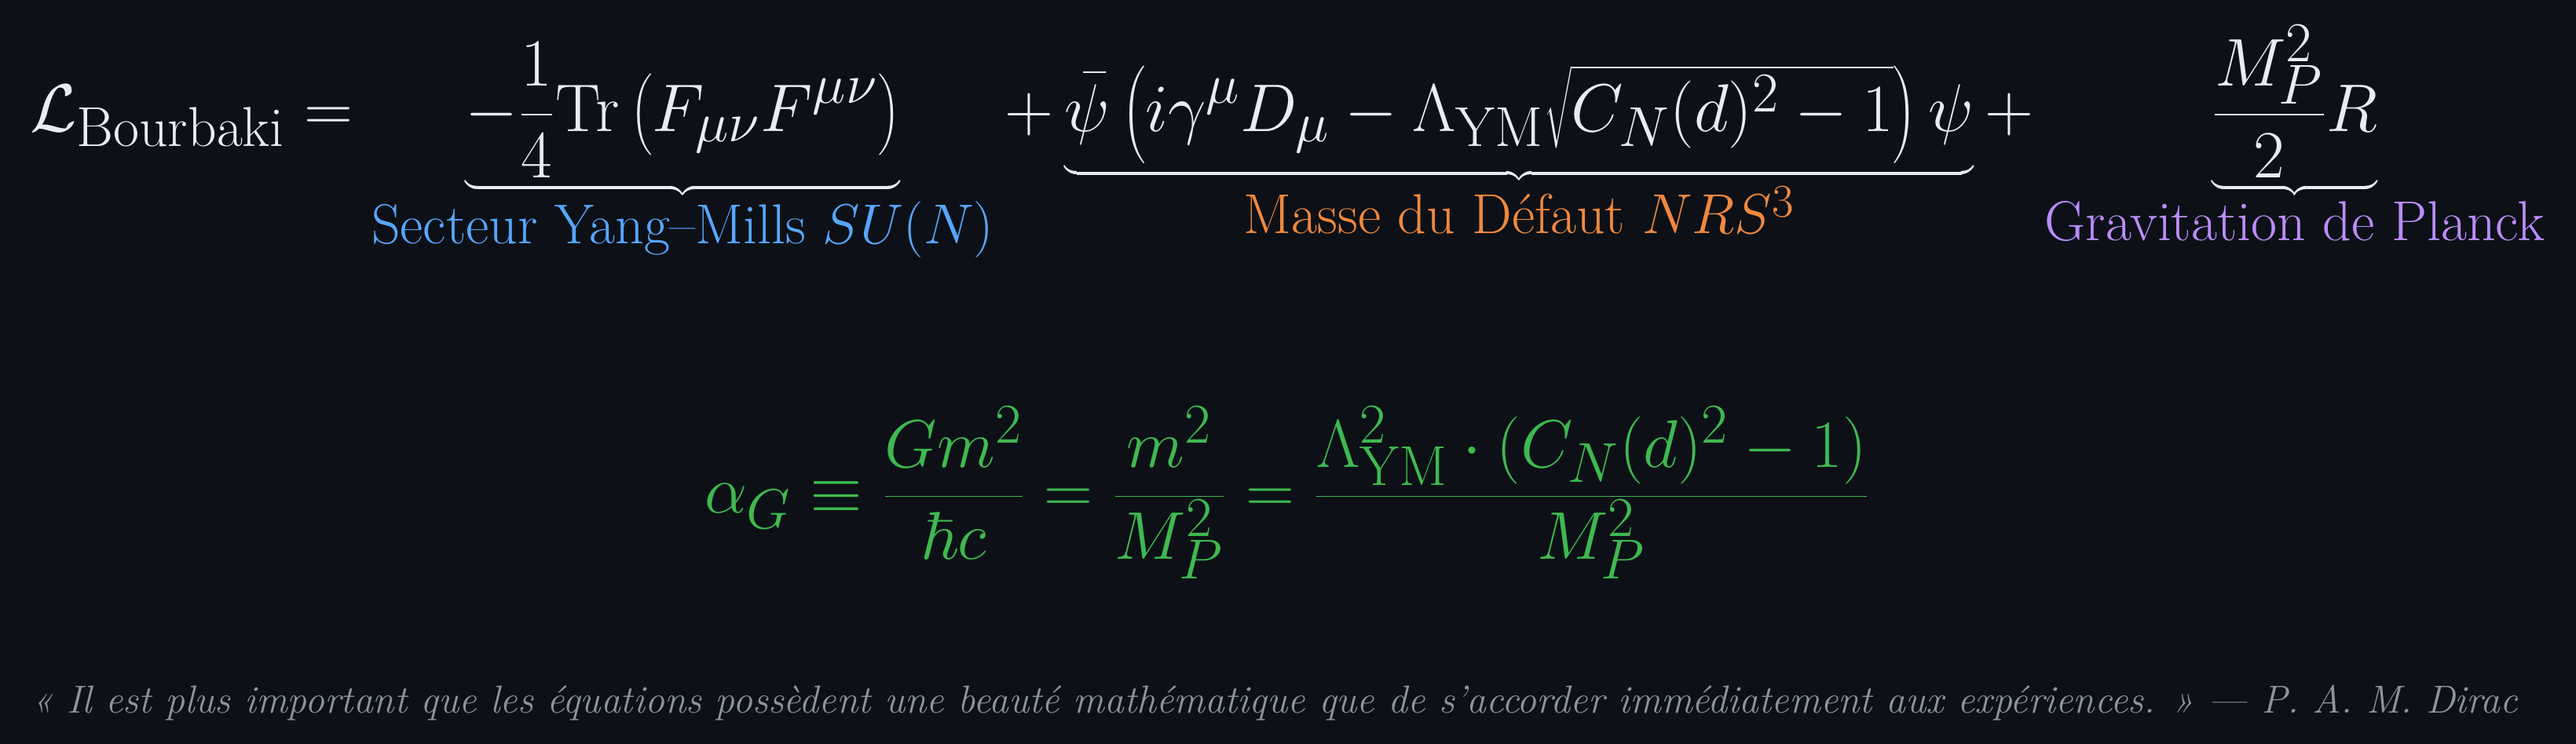
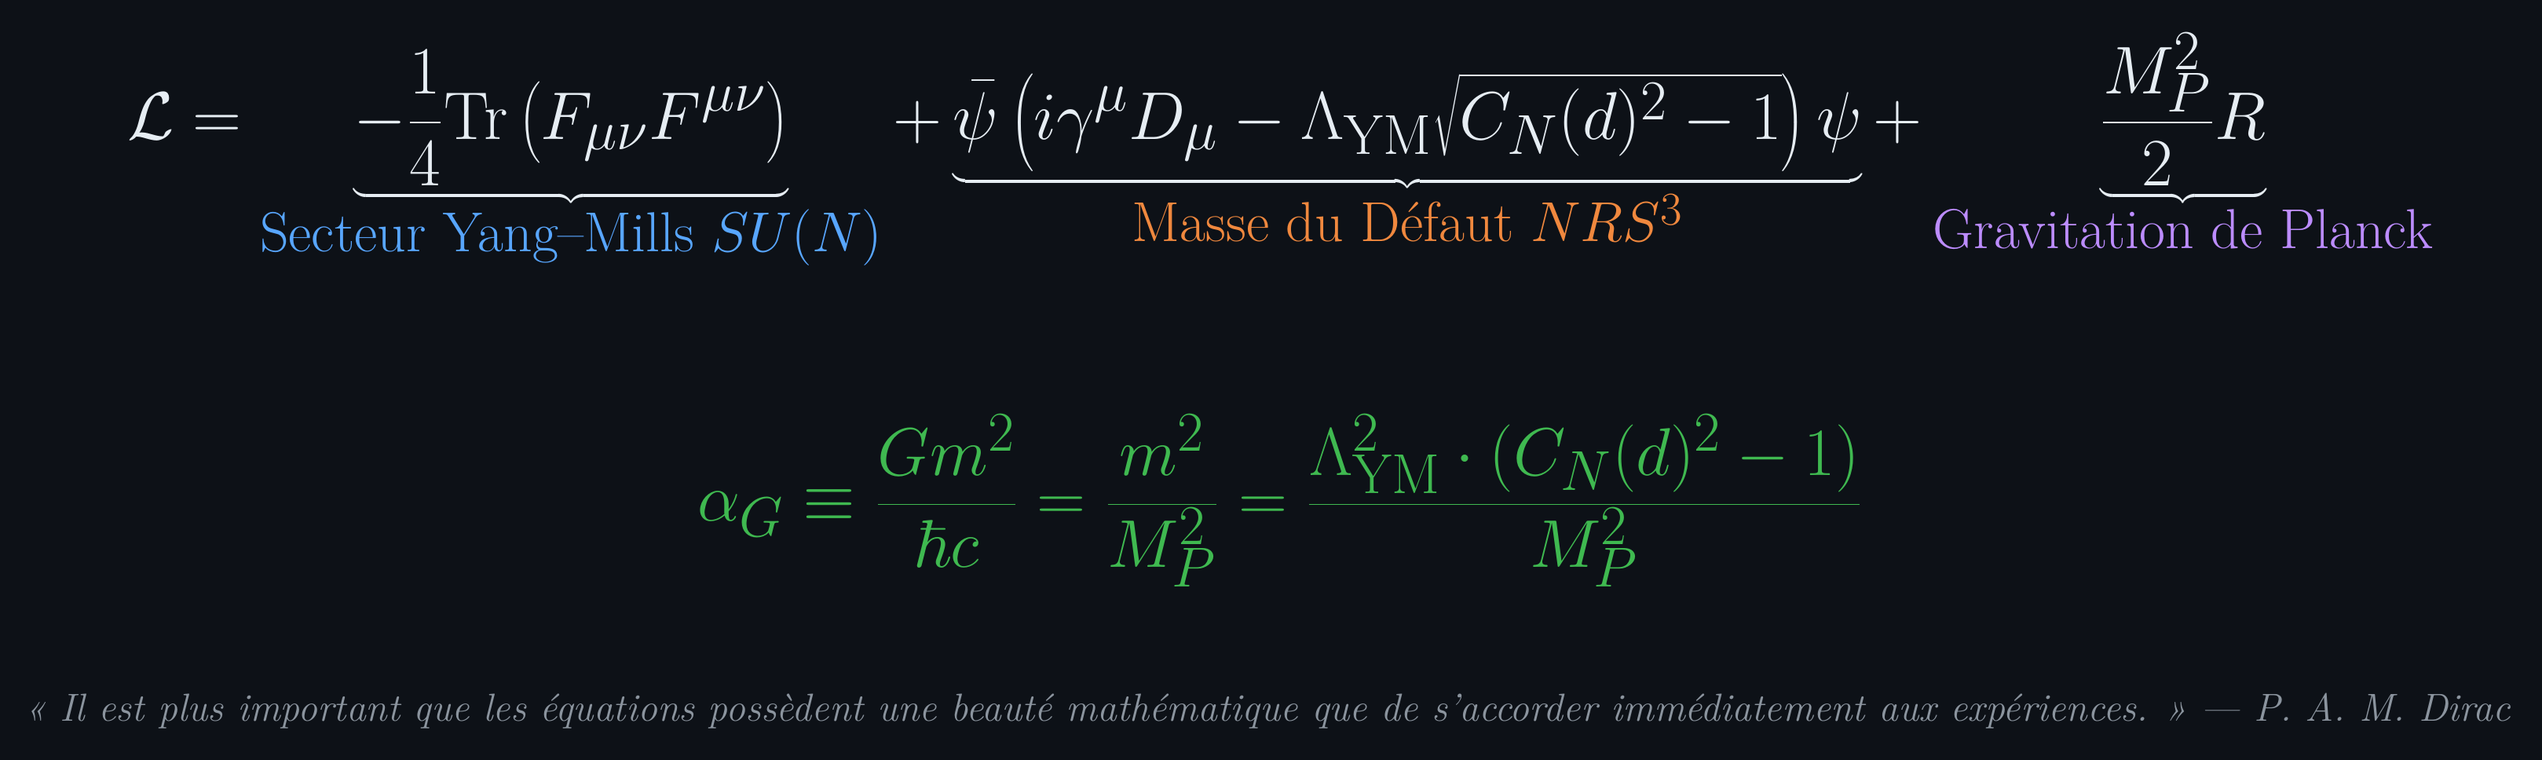
refactor(profile): epurer le lagrangien unifie — supprimer l'etiquette Bourbaki au profit des secteurs physiques stricts (Jauge, Defaut, Gravitation)

diff --git a/PROFILE.md b/PROFILE.md
@@ -10,7 +10,7 @@
 
 ---
 
-## 🏛 L'Unification Fonctorielle : Architecture Bourbaki
+## 🏛 L'Échelle Fonctorielle : Réseau, Jauge et Gravitation
 
 La physique théorique contemporaine s'est historiquement fragmentée en domaines étanches : la dispersion réticulaire en matière condensée, le confinement non abélien des théories de jauge, et la gravitation en champ faible.
 
@@ -19,7 +19,7 @@ la non-saturation de l'incertitude quantique sur les graphes cubiques discrets (
 
 <div align="center">
 
-<img src="https://raw.githubusercontent.com/naype888-cloud/naype888-cloud/main/assets/lagrangian_bourbaki.png" alt="L'Action Unifiée de Bourbaki : Jauge, Réseau et Gravitation" width="960">
+<img src="https://raw.githubusercontent.com/naype888-cloud/naype888-cloud/main/assets/action_unifiee.png" alt="L'Action Unifiée : Secteurs de Jauge, Matière et Gravitation" width="960">
 
 </div>
 
@@ -51,7 +51,7 @@ Incertitude de Nava–Robertson–Schrödinger sur le tri-tore $\mathbb{T}^3$ : 
 
 | Dépôt Source | Objet Mathématique & Démonstrations Certifiées | Portail Interactif 3D |
 |---|---|:---:|
-| **[`YM-By-Perelmans-surgery-method`](https://github.com/naype888-cloud/YM-By-Perelmans-surgery-method)** | **Gap Spectral de Yang–Mills & Pont Gravitationnel :** Traité Bourbaki en 8 étapes constructives. Matrice de transfert, chirurgie topologique de Perelman, annulation spectrale de Wightman $\Delta_{\mathrm{YM}} \ge \Lambda_{\mathrm{YM}}\sqrt{C^2 - 1} > 0$. Couplage adimensionnel de Planck $\alpha_G = \Lambda^2 (C^2 - 1) / M_P^2$ (`0 sorry`). | [▶ Explorateur 3D de Preuves](https://naype888-cloud.github.io/YM-By-Perelmans-surgery-method/) |
+| **[`YM-By-Perelmans-surgery-method`](https://github.com/naype888-cloud/YM-By-Perelmans-surgery-method)** | **Gap Spectral de Yang–Mills & Pont Gravitationnel :** Traité axiomatique en 8 étapes constructives. Matrice de transfert, chirurgie topologique de Perelman, annulation spectrale de Wightman $\Delta_{\mathrm{YM}} \ge \Lambda_{\mathrm{YM}}\sqrt{C^2 - 1} > 0$. Couplage adimensionnel de Planck $\alpha_G = \Lambda^2 (C^2 - 1) / M_P^2$ (`0 sorry`). | [▶ Explorateur 3D de Preuves](https://naype888-cloud.github.io/YM-By-Perelmans-surgery-method/) |
 | **[`nrs3-tightbinding`](https://github.com/naype888-cloud/nrs3-tightbinding)** | **Le Tableau Périodique 3D sur $\mathbb{Z}^3$ :** Les 118 éléments chimiques (H–Og) construits par saut discret sur arêtes cubiques ($T_d:P_d$). Courbure analytique exacte de bande $E''(0) = 2ta^2$ et masse effective $m^* = \hbar^2/(2ta^2)$. | [▶ Tableau Périodique 3D](https://naype888-cloud.github.io/nrs3-tightbinding/) |
 | **[`nrs3-defect-curvature`](https://github.com/naype888-cloud/nrs3-defect-curvature)** | **Défaut de Transport et Courbure :** Le défaut de transport fixe la courbure d'espace-temps sous le théorème de Gauss–Bonnet. Les liens non-locaux ferment les cycles topologiques, chacun portant un quantum de défaut. | [▶ Simulation Cône & Défaut](https://naype888-cloud.github.io/nrs3-defect-curvature/) |
 

diff --git a/README.md b/README.md
@@ -10,7 +10,7 @@
 
 ---
 
-## 🏛 L'Unification Fonctorielle : Architecture Bourbaki
+## 🏛 L'Échelle Fonctorielle : Réseau, Jauge et Gravitation
 
 La physique théorique contemporaine s'est historiquement fragmentée en domaines étanches : la dispersion réticulaire en matière condensée, le confinement non abélien des théories de jauge, et la gravitation en champ faible.
 
@@ -19,7 +19,7 @@ la non-saturation de l'incertitude quantique sur les graphes cubiques discrets (
 
 <div align="center">
 
-<img src="https://raw.githubusercontent.com/naype888-cloud/naype888-cloud/main/assets/lagrangian_bourbaki.png" alt="L'Action Unifiée de Bourbaki : Jauge, Réseau et Gravitation" width="960">
+<img src="https://raw.githubusercontent.com/naype888-cloud/naype888-cloud/main/assets/action_unifiee.png" alt="L'Action Unifiée : Secteurs de Jauge, Matière et Gravitation" width="960">
 
 </div>
 
@@ -51,7 +51,7 @@ Incertitude de Nava–Robertson–Schrödinger sur le tri-tore $\mathbb{T}^3$ : 
 
 | Dépôt Source | Objet Mathématique & Démonstrations Certifiées | Portail Interactif 3D |
 |---|---|:---:|
-| **[`YM-By-Perelmans-surgery-method`](https://github.com/naype888-cloud/YM-By-Perelmans-surgery-method)** | **Gap Spectral de Yang–Mills & Pont Gravitationnel :** Traité Bourbaki en 8 étapes constructives. Matrice de transfert, chirurgie topologique de Perelman, annulation spectrale de Wightman $\Delta_{\mathrm{YM}} \ge \Lambda_{\mathrm{YM}}\sqrt{C^2 - 1} > 0$. Couplage adimensionnel de Planck $\alpha_G = \Lambda^2 (C^2 - 1) / M_P^2$ (`0 sorry`). | [▶ Explorateur 3D de Preuves](https://naype888-cloud.github.io/YM-By-Perelmans-surgery-method/) |
+| **[`YM-By-Perelmans-surgery-method`](https://github.com/naype888-cloud/YM-By-Perelmans-surgery-method)** | **Gap Spectral de Yang–Mills & Pont Gravitationnel :** Traité axiomatique en 8 étapes constructives. Matrice de transfert, chirurgie topologique de Perelman, annulation spectrale de Wightman $\Delta_{\mathrm{YM}} \ge \Lambda_{\mathrm{YM}}\sqrt{C^2 - 1} > 0$. Couplage adimensionnel de Planck $\alpha_G = \Lambda^2 (C^2 - 1) / M_P^2$ (`0 sorry`). | [▶ Explorateur 3D de Preuves](https://naype888-cloud.github.io/YM-By-Perelmans-surgery-method/) |
 | **[`nrs3-tightbinding`](https://github.com/naype888-cloud/nrs3-tightbinding)** | **Le Tableau Périodique 3D sur $\mathbb{Z}^3$ :** Les 118 éléments chimiques (H–Og) construits par saut discret sur arêtes cubiques ($T_d:P_d$). Courbure analytique exacte de bande $E''(0) = 2ta^2$ et masse effective $m^* = \hbar^2/(2ta^2)$. | [▶ Tableau Périodique 3D](https://naype888-cloud.github.io/nrs3-tightbinding/) |
 | **[`nrs3-defect-curvature`](https://github.com/naype888-cloud/nrs3-defect-curvature)** | **Défaut de Transport et Courbure :** Le défaut de transport fixe la courbure d'espace-temps sous le théorème de Gauss–Bonnet. Les liens non-locaux ferment les cycles topologiques, chacun portant un quantum de défaut. | [▶ Simulation Cône & Défaut](https://naype888-cloud.github.io/nrs3-defect-curvature/) |
 
